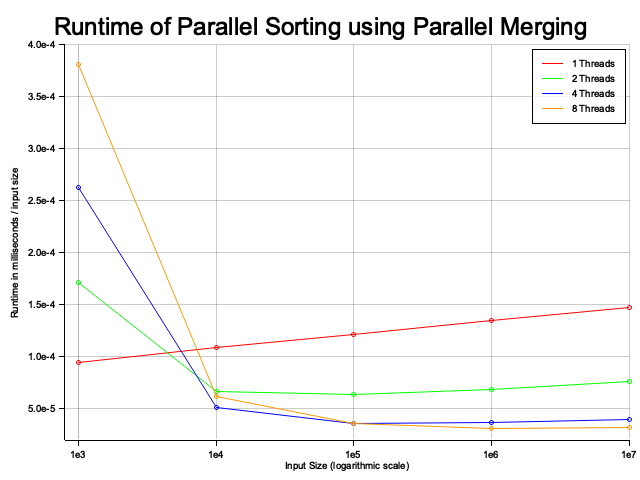
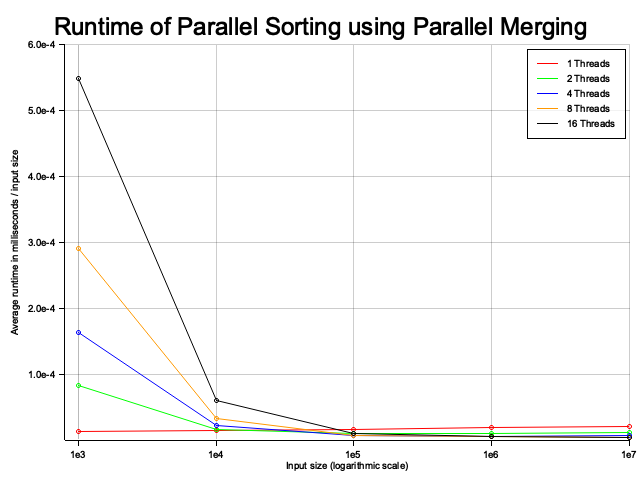
update plots

diff --git a/src/plotting.rs b/src/plotting.rs
@@ -20,6 +20,8 @@ pub fn create_data(input_sizes: Vec<usize>, threads: Vec<usize>) -> Vec<Vec<(usi
     for size in input_sizes.iter() {
         input_vectors.push(shuffled(*size as i64));
     }
+    
+    println!("Input Generated");
 
     for t in threads.iter() {
         data.push(
@@ -87,8 +89,8 @@ pub fn plot_runtime_depending_on_threads() -> Result<(), Box<dyn std::error::Err
     let input_sizes: Vec<usize> = (3..=7).map(|exp| 10usize.pow(exp)).collect();
 
     // each thread and colour is a new line in the graph
-    let threads: Vec<usize> = vec![1, 2, 4, 8 /*, 16*/];
-    let colors = [&RED, &GREEN, &BLUE, &ORANGE /*, &BLACK*/];
+    let threads: Vec<usize> = vec![1, 2, 4, 8, 16];
+    let colors = [&RED, &GREEN, &BLUE, &ORANGE, &BLACK];
 
     // calculate the running time for each input size and thread number
     let data = create_data(input_sizes.clone(), threads.clone());
@@ -112,9 +114,9 @@ pub fn plot_runtime_depending_on_threads() -> Result<(), Box<dyn std::error::Err
         .configure_mesh()
         .max_light_lines(0)
         .y_label_formatter(&|y| format!("{:.1e}", y))
-        .y_desc("Runtime in milliseconds / input size")
+        .y_desc("Average runtime in milliseconds / input size")
         .x_label_formatter(&|x| format!("{:.0e}", x))
-        .x_desc("Input Size (logarithmic scale)")
+        .x_desc("Input size (logarithmic scale)")
         .draw()?;
 
     for i in 0..threads.len() {
@@ -142,7 +144,7 @@ pub fn plot_runtime_depending_on_threads() -> Result<(), Box<dyn std::error::Err
 
 pub fn plot_runtime_depending_on_input_generation() -> Result<(), Box<dyn std::error::Error>> {
     // corresponds to x axis
-    let input_sizes: Vec<usize> = (3..=7).map(|exp| 10usize.pow(exp)).collect();
+    let input_sizes: Vec<usize> = (3..=8).map(|exp| 10usize.pow(exp)).collect();
 
     // each type of input generation will correspond to a line in the graph
     let input_generation_function: Vec<MergeFunction> = vec![
@@ -170,15 +172,15 @@ pub fn plot_runtime_depending_on_input_generation() -> Result<(), Box<dyn std::e
         )
         .x_label_area_size(30)
         .y_label_area_size(55)
-        .build_cartesian_2d((800..10000000).log_scale(), (1e-3..1e2).log_scale())?;
+        .build_cartesian_2d((800..100000000).log_scale(), (3e-4..1e3).log_scale())?;
 
     chart
         .configure_mesh()
         .max_light_lines(0)
         .y_label_formatter(&|y| format!("{:.1e}", y))
-        .y_desc("Runtime in milliseconds (logarithmic scale)")
+        .y_desc("Average runtime in milliseconds (logarithmic scale)")
         .x_label_formatter(&|x| format!("{:.0e}", x))
-        .x_desc("Input Size (logarithmic scale)")
+        .x_desc("Input size (logarithmic scale)")
         .draw()?;
 
     for i in 0..input_generation_function.len() {
